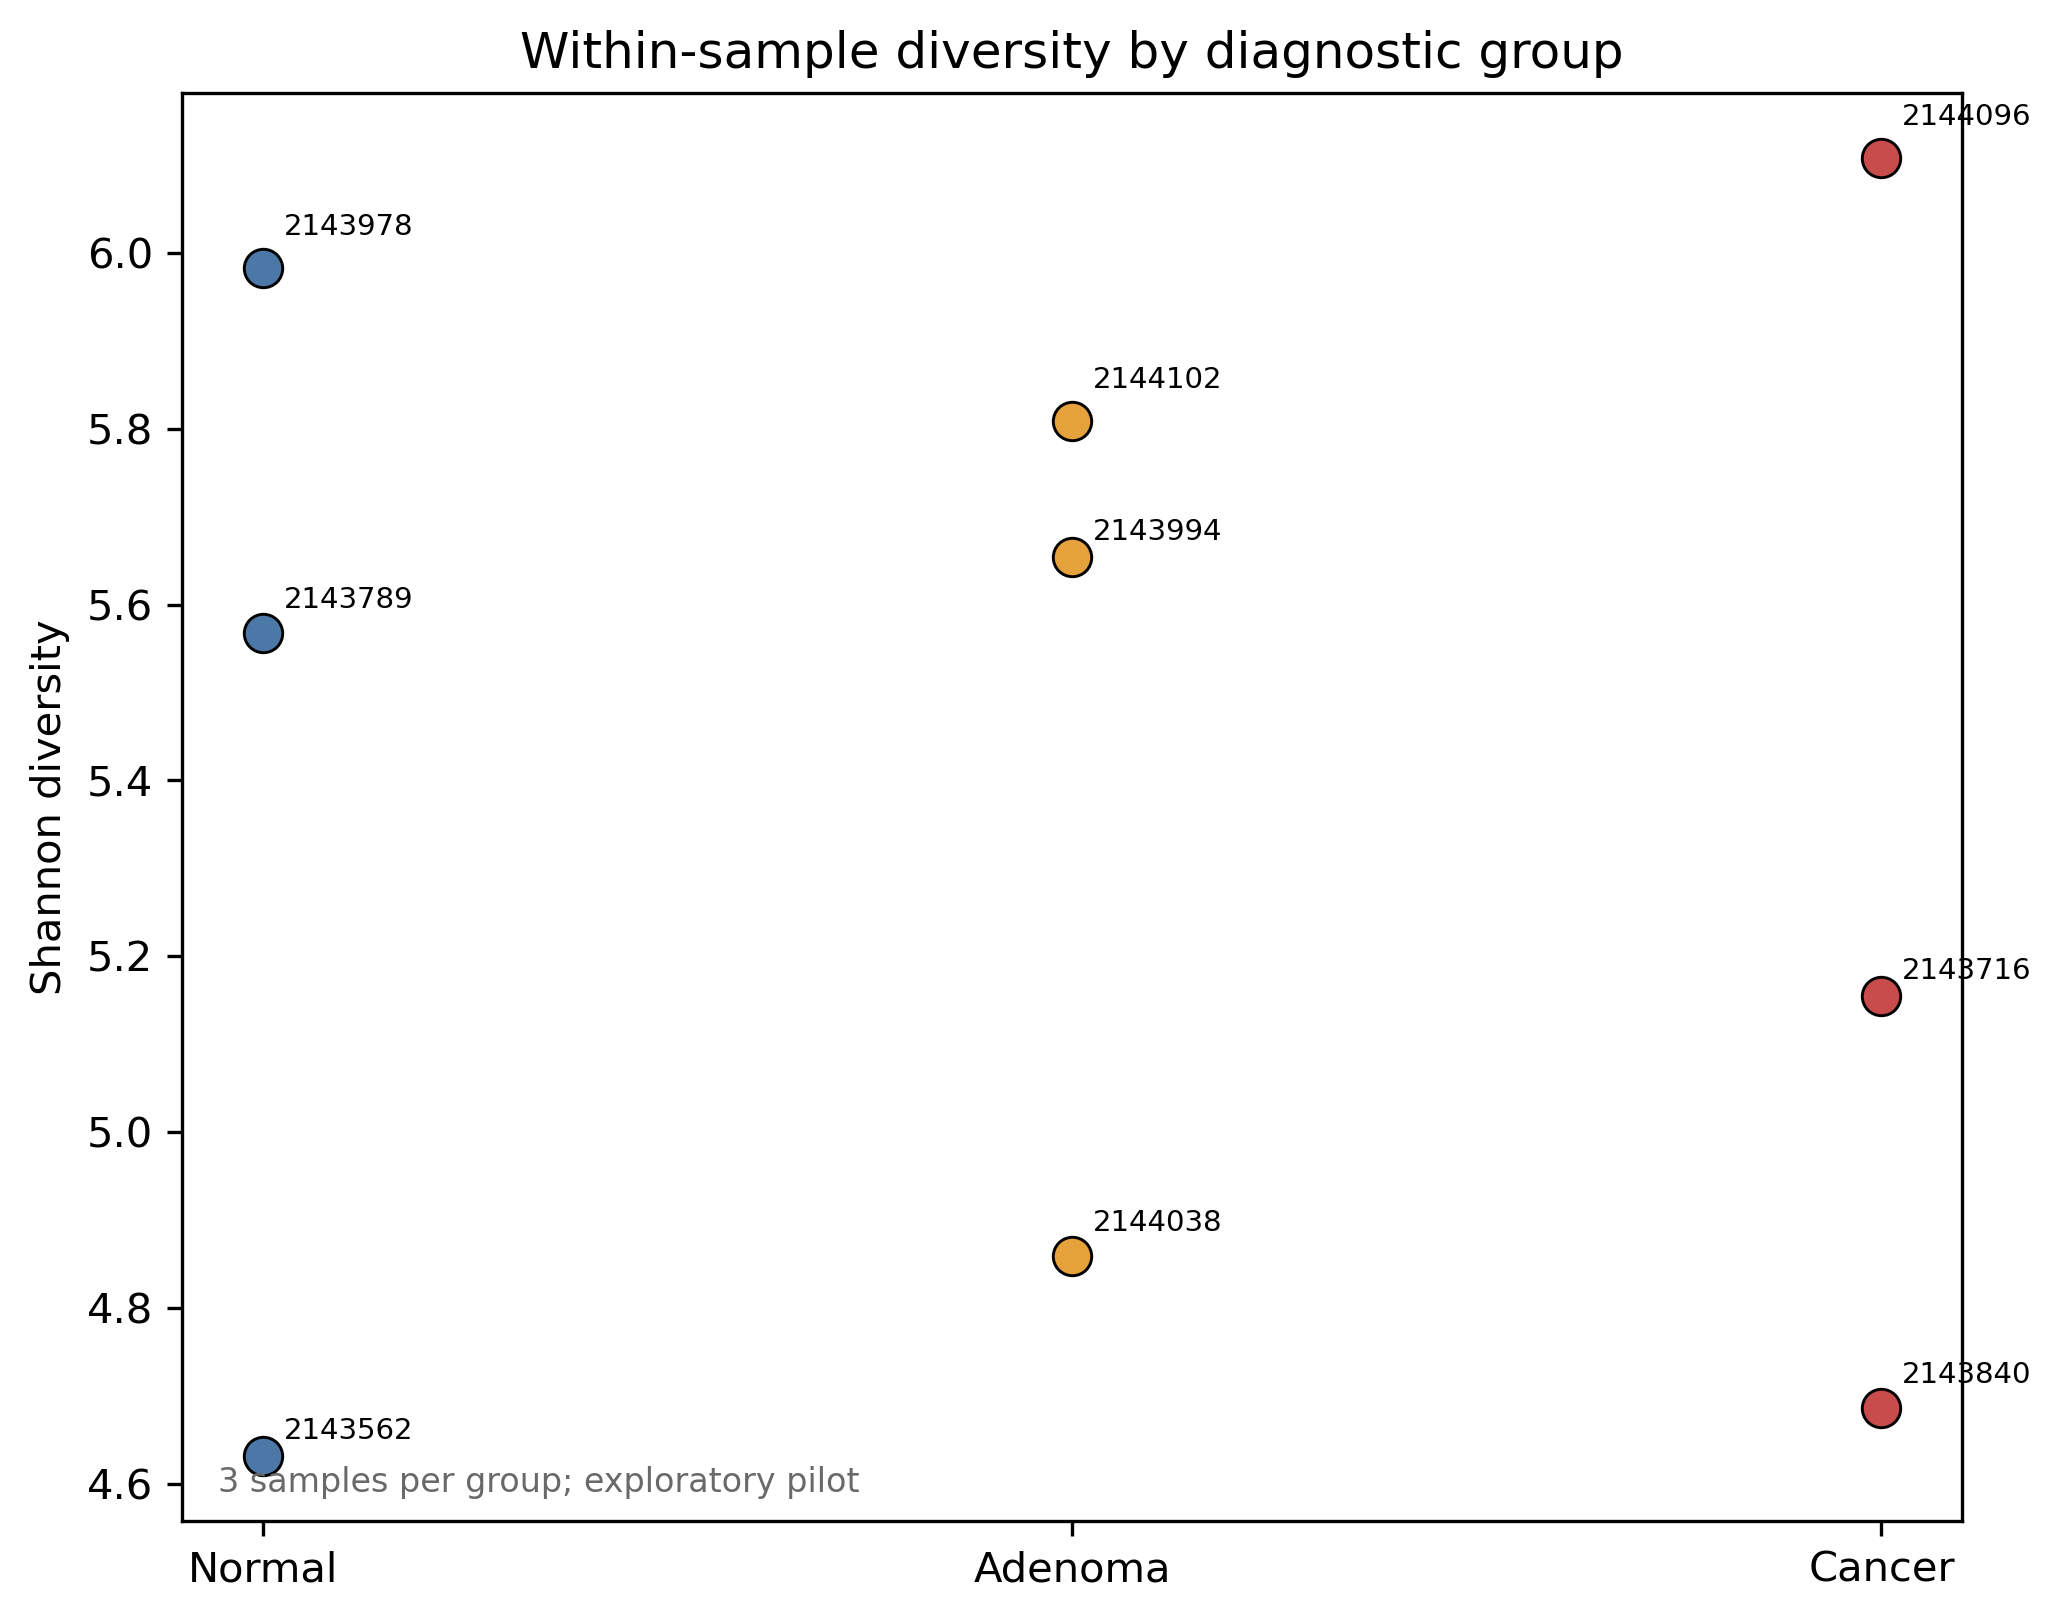
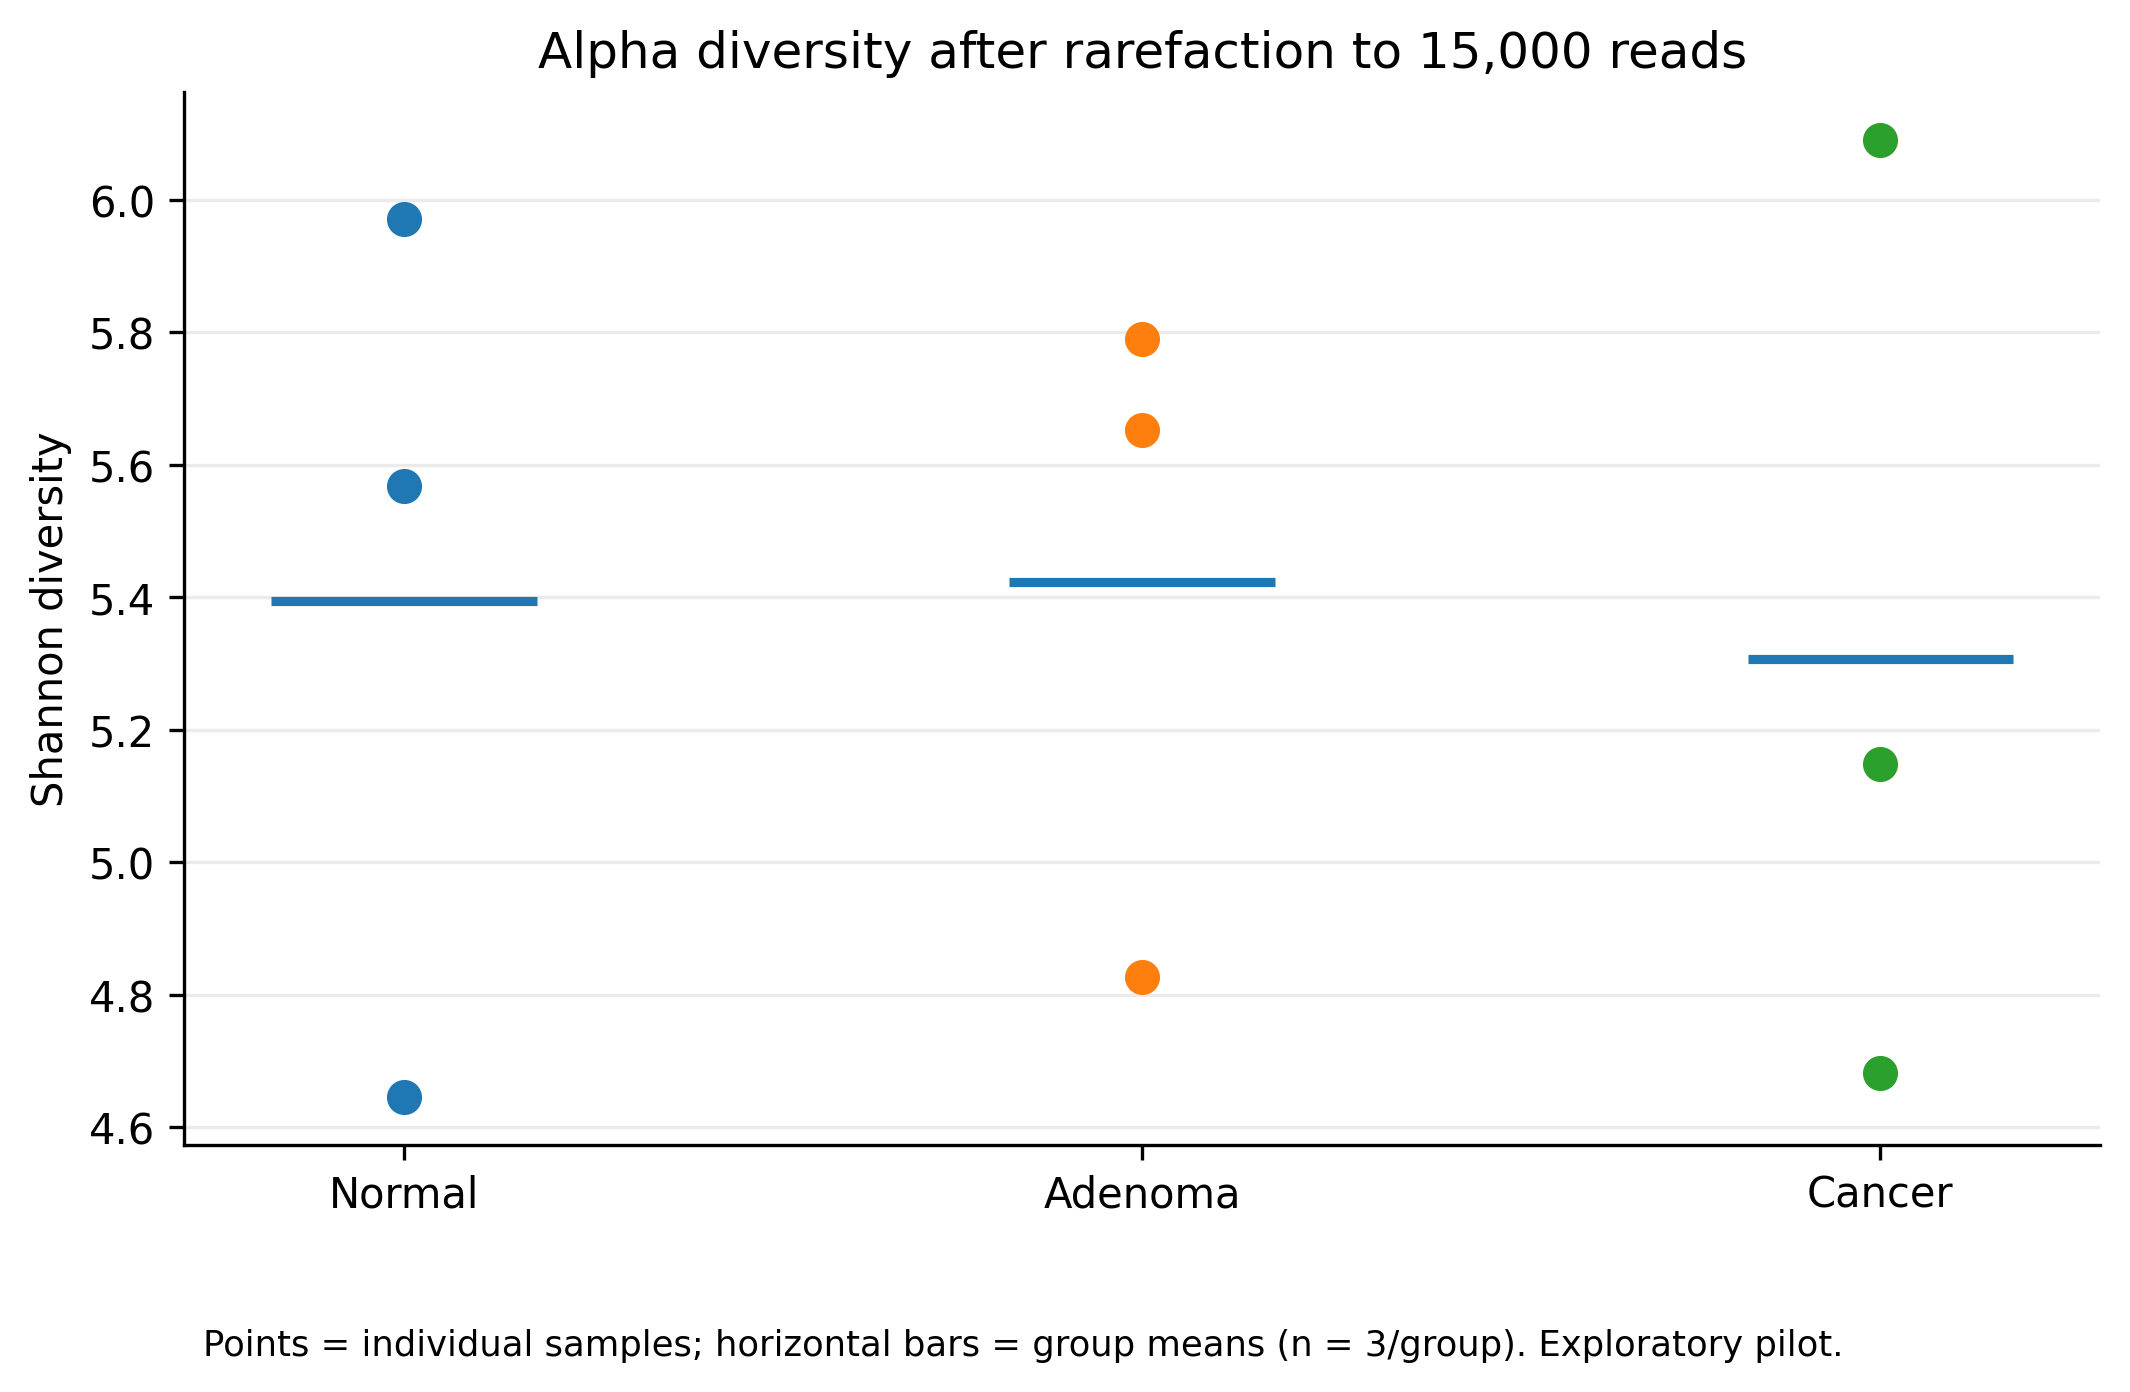
Document CRC microbiome pilot analysis

diff --git a/README.md b/README.md
@@ -1,103 +1,209 @@
+
 # Gut Microbiome Across the Colorectal Adenoma–Carcinoma Sequence
 
-## Project overview
+## Project Overview
 
-This repository documents a nine-sample 16S rRNA amplicon sequencing pilot using publicly available data from the Baxter et al. study (NCBI BioProject: PRJNA290926).
+How does gut microbial diversity and community composition vary across normal controls, colorectal adenoma, and colorectal cancer (CRC)?
 
-The pilot was developed to learn and evaluate a reproducible microbiome analysis workflow across three diagnostic groups:
+This project documents a nine-sample pilot analysis of publicly available 16S rRNA amplicon sequencing data. It explores microbial community patterns across three diagnostic groups and establishes a foundation for a transparent microbiome analysis workflow.
 
-- Normal controls
-- Adenoma
-- Colorectal cancer (CRC)
+**This is an exploratory pilot, not a powered disease-association study.** The results are preliminary and should not be interpreted as evidence of causation or clinical utility.
 
-The current analysis focuses on microbial community composition and diversity. Because this is 16S amplicon data, it does not directly measure microbial genes, bile-acid metabolism, or other functional pathways.
+## Research Question
+
+Colorectal cancer can develop through a sequence of tissue changes that includes adenomatous lesions. Gut microbial communities may differ across these diagnostic stages.
+
+This pilot examines:
+
+- **Alpha diversity:** within-sample microbial diversity.
+- **Beta diversity:** differences in microbial community composition between samples.
+- **Taxonomic composition:** microbial taxa identified from 16S rRNA sequences.
+
+Although the broader biological motivation includes bile acid and lipid metabolism, 16S amplicon sequencing does not directly measure microbial metabolic genes, pathway activity, or metabolite concentrations. These questions require additional functional or metabolomic data.
 
 ## Dataset
 
-- Study: Baxter et al.
-- NCBI BioProject: [PRJNA290926](https://www.ncbi.nlm.nih.gov/bioproject/PRJNA290926)
-- Pilot size: 9 samples
-- Groups: 3 normal, 3 adenoma, 3 CRC
-- Sequencing: paired-end 16S rRNA amplicon reads
-- Sample metadata: `qiime-metadata.tsv`
+- **Source study:** Baxter et al. (2016)
+- **NCBI BioProject:** [PRJNA290926](https://www.ncbi.nlm.nih.gov/bioproject/PRJNA290926)
+- **Publication:** [Baxter et al., Genome Medicine (2016)](https://doi.org/10.1186/s13073-016-0290-3)
+- **Pilot size:** 9 samples
+- **Diagnostic groups:** 3 normal controls, 3 adenoma, and 3 CRC
+- **Data type:** paired-end 16S rRNA amplicon sequencing
+- **Taxonomic reference:** SILVA 144 classifier trained for the V4 region
 
-The sample-level diagnostic grouping used in this pilot is the `dx` column. The original `stage` field was not used for group comparisons because its values were inconsistent for this subset.
+The `dx` metadata field defines the three diagnostic groups. The original `stage` field was not used for these comparisons because its values were inconsistent for this subset.
+
+This is a small reanalysis pilot, not a reproduction of the original study's complete analysis.
+
+## Tools and Methods
+
+| Tool or method | Purpose |
+|---|---|
+| QIIME 2 (2026.7) | Microbiome analysis framework |
+| DADA2 | Paired-read denoising, merging, and chimera removal |
+| SILVA 144 classifier | Taxonomic classification |
+| Shannon diversity | Measures within-sample diversity |
+| Simpson diversity | Summarizes diversity with greater weight on common taxa |
+| Pielou evenness | Measures the evenness of taxon abundances |
+| Bray–Curtis dissimilarity | Quantifies differences in community composition |
+| Principal Coordinates Analysis (PCoA) | Visualizes sample relationships from a distance matrix |
+| PERMANOVA | Tests for differences in community composition between groups |
 
 ## Workflow
 
-The pilot analysis used QIIME 2 (release 2026.7) and included:
+The documented analysis workflow comprises the following stages:
 
-1. Import of paired-end sequencing reads.
-2. Read denoising, merging, and chimera removal with DADA2.
-3. Taxonomic classification using a SILVA 144 classifier trained for the V4 region.
-4. Taxonomic composition visualisation.
-5. Alpha-diversity summaries using Shannon, Simpson, and Pielou evenness.
-6. Bray–Curtis dissimilarity and principal coordinates analysis (PCoA).
-7. PERMANOVA to explore community composition differences among diagnostic groups.
+1. Import paired-end reads using a manifest.
+2. Inspect sequencing-read quality.
+3. Denoise paired-end reads with DADA2, including read merging and chimera removal.
+4. Classify representative sequences using the SILVA 144 V4-trained classifier.
+5. Summarize taxonomic composition.
+6. Calculate alpha-diversity metrics.
+7. Calculate Bray–Curtis distances and perform PCoA.
+8. Explore differences in community composition using PERMANOVA.
 
-The DADA2 truncation settings used were 240 bases for forward reads and 200 bases for reverse reads.
+**Documented DADA2 truncation settings:** 240 bp for forward reads and 200 bp for reverse reads.
 
-## Pilot results
+These steps describe the analysis workflow. The current shell script is a helper that checks for required input files and prints documented settings; it does not execute the complete analysis end to end.
 
-### Read processing
+## Installation and Setup
 
-All nine samples produced non-chimeric sequences after DADA2 processing. The number of non-chimeric sequences varied between samples, from approximately 15,800 to 101,300.
+### 1. Install QIIME 2
 
-### Alpha diversity
+Follow the official installation instructions for QIIME 2 2026.7:
 
-Shannon diversity, Simpson diversity, and Pielou evenness were calculated for each sample. The small pilot showed variation within diagnostic groups and did not establish a clear, consistent diversity trend across the normal–adenoma–cancer sequence.
+https://docs.qiime2.org/2026.7/install/
 
-These exploratory values were calculated from the unrarefied feature table. Differences in sequencing depth should be considered when interpreting them.
+Activate the environment used for this analysis:
 
-### Beta diversity
+```bash
+conda activate qiime2-2026.7
+qiime --version
+```
 
-The first two PCoA axes explained approximately 23.37% and 17.81% of the variation in the Bray–Curtis ordination, respectively.
+### 2. Obtain the Input Data
 
-The groups overlapped visually in the ordination. The overall PERMANOVA result was not statistically significant (pseudo-F = 0.981, p = 0.537; 999 permutations).
+The source data are available through [NCBI BioProject PRJNA290926](https://www.ncbi.nlm.nih.gov/bioproject/PRJNA290926).
 
-This result does not demonstrate that the groups have identical microbiomes. With only three samples per group, the analysis has limited power to detect group differences.
+The documented workflow requires:
+
+- Paired-end sequencing reads for the nine selected samples.
+- A manifest containing the read-file locations.
+- A metadata file containing the diagnostic groups.
+- A SILVA 144 classifier artifact trained for the V4 region.
+
+Raw sequencing files and large QIIME 2 intermediate artifacts are not bundled with this repository.
+
+### 3. Check the Workflow Inputs
+
+The current helper script expects these files under `$HOME/metagenomics`:
+
+- `SILVA_144_SSURef_NR99_uniform_classifier_V4-515f-806r.qza`
+- `Metadata/qiime-metadata.tsv`
+- `manifest.tsv`
+
+From the repository directory, run:
+
+```bash
+bash scripts/qiime2_workflow.sh
+```
+
+**Important:** this script checks whether the required files exist and prints documented workflow settings. It does not import reads, run DADA2, classify sequences, calculate diversity, or execute statistical tests. Its paths reflect the original local directory structure and may need to be adapted for another installation.
+
+## Results
+
+### Read Processing
+
+All nine samples produced non-chimeric sequences after DADA2 processing.
+
+- **Input read pairs:** approximately 19,315–124,117 per sample.
+- **Non-chimeric sequences:** approximately 15,814–101,301 per sample.
+- **Non-chimeric read retention:** approximately 81.04–88.09%.
+
+Input sequencing depth varied by approximately 6.4-fold across samples, an important consideration when comparing diversity metrics.
+
+### Alpha Diversity
+
+Shannon diversity, Simpson diversity, and Pielou evenness were calculated. A depth-standardized analysis was subsequently generated using a rarefaction depth of 15,000 reads per sample, retaining all nine samples.
+
+Relevant outputs:
+
+- `results/alpha-diversity-all-metrics.xlsx`
+- `figures/shannon-diversity.png`
+
+The pilot shows variation among individual samples and does not establish a clear, consistent diversity trend across the normal–adenoma–cancer sequence.
+
+Rarefaction standardizes the number of reads sampled for this analysis, but it does not overcome the small sample size or establish statistical significance.
+
+### Beta Diversity
+
+The existing Bray–Curtis PCoA was based on the original DADA2 feature table.
+
+- **PCoA axis 1:** 23.37% of variation.
+- **PCoA axis 2:** 17.81% of variation.
+- **Overall PERMANOVA:** pseudo-F = 0.981, p = 0.537, using 999 permutations.
+
+The groups overlapped in the ordination, and the overall PERMANOVA result was not statistically significant.
+
+This does not establish that the groups have identical microbiomes or that disease-associated differences are absent. With only three samples per group, statistical power is limited.
+
+The beta-diversity results should not be described as a rarefied reanalysis unless those analyses are explicitly rerun and documented.
 
 ## Figures
 
 ### Bray–Curtis PCoA
+
 ![Bray–Curtis PCoA of the nine-sample pilot](figures/bray-curtis-pcoa.png)
 
-The first two axes explain 23.37% and 17.81% of the variation, respectively. The diagnostic groups overlap visually in this small pilot.
+The first two axes explain 23.37% and 17.81% of the variation, respectively.
 
-### Shannon alpha diversity
+### Shannon Alpha Diversity
+
 ![Shannon diversity across diagnostic groups](figures/shannon-diversity.png)
 
-Values vary between samples, with only three samples in each diagnostic group. These exploratory values were calculated from an unrarefied feature table.
+The figure displays Shannon diversity from the depth-standardized pilot analysis. Each group contains only three samples.
 
-### DADA2 read retention
+### DADA2 Read Retention
+
 ![Percentage of input reads retained after DADA2](figures/dada2-read-retention.png)
 
-All nine samples retained non-chimeric reads after processing. Retention percentages are shown per sample.
+The plot summarizes non-chimeric read retention for the nine samples.
+
+## Repository Structure
+
+- `Metadata/qiime-metadata.tsv`: metadata for the pilot samples.
+- `manifest-template.tsv`: template for specifying paired-end FASTQ locations.
+- `scripts/qiime2_workflow.sh`: checks for required local input files and prints documented workflow settings.
+- `results/`: exported diversity summaries and other analysis outputs.
+- `figures/`: visual summaries of diversity, ordination, and read retention.
+
+Raw sequencing files, reference artifacts, and large QIIME 2 intermediate artifacts are not included. File locations may need adjustment for a new installation.
 
 ## Limitations
 
-- This is a small pilot with three samples per group, not a powered disease-association study.
-- 16S amplicon sequencing does not directly quantify microbial functional genes or metabolic pathways.
-- Alpha-diversity estimates were exploratory and were calculated from an unrarefied feature table.
-- The analysis should not be used to infer causation or make clinical claims.
-- Primer handling and the complete end-to-end workflow still require further validation before the analysis can be considered fully reproducible.
+- Only three samples represent each diagnostic group.
+- Sequencing depth differs substantially among samples.
+- Alpha- and beta-diversity results were not all generated from the same feature-table version.
+- The current helper script is not an end-to-end reproducible pipeline.
+- The pilot cannot establish causation, clinical utility, or equivalence between diagnostic groups.
+- 16S amplicon data do not directly measure microbial functional genes or metabolic pathways.
+- The analysis workflow, including primer handling, environment setup, and the complete sequence of processing steps, requires further validation.
 
-## Repository contents
+## Next Steps
 
-- `qiime-metadata.tsv`: metadata for the nine pilot samples.
-- `manifest-template.tsv`: template for specifying paired-end FASTQ locations.
-- `results/`: summary diversity values, DADA2 statistics, ordination coordinates, and pairwise PERMANOVA output.
-- `scripts/qiime2_workflow.sh`: preliminary workflow input-check script, not yet a complete executable pipeline.
-
-Large sequencing files and QIIME 2 artifacts are not included. Raw data should be obtained from the original public study, and the reference classifier should be downloaded separately from the SILVA/QIIME 2 resources.
-
-## Next steps
-
-- Validate primer removal and read-processing choices.
-- Generate publication-quality figures from the exported results.
-- Expand the pilot to a larger, appropriately powered sample set.
-- Use suitable shotgun metagenomic datasets for any future investigation of bile-acid or lipid-metabolism genes.
+- Make the analysis workflow executable from a fresh project directory.
+- Document the exact commands and software versions used at each analysis stage.
+- Validate primer handling and read-processing parameters.
+- Ensure diversity analyses use appropriately documented feature tables and settings.
+- Expand the sample set before drawing disease-group inferences.
+- Use suitable shotgun metagenomic datasets for future investigations of bile acid and lipid-metabolism genes.
 
 ## Acknowledgements
 
-Data originate from the publicly available study associated with NCBI BioProject PRJNA290926. Please consult the original study for its publication details and data-use information.
+This project uses publicly available data associated with NCBI BioProject PRJNA290926.
+
+## Reference
+
+Baxter NT, Ruffin MT IV, Rogers MAM, Schloss PD. Microbiota-based model improves the sensitivity of fecal immunochemical test for detecting colonic lesions. *Genome Medicine*. 2016;8:37.
+
+https://doi.org/10.1186/s13073-016-0290-3
